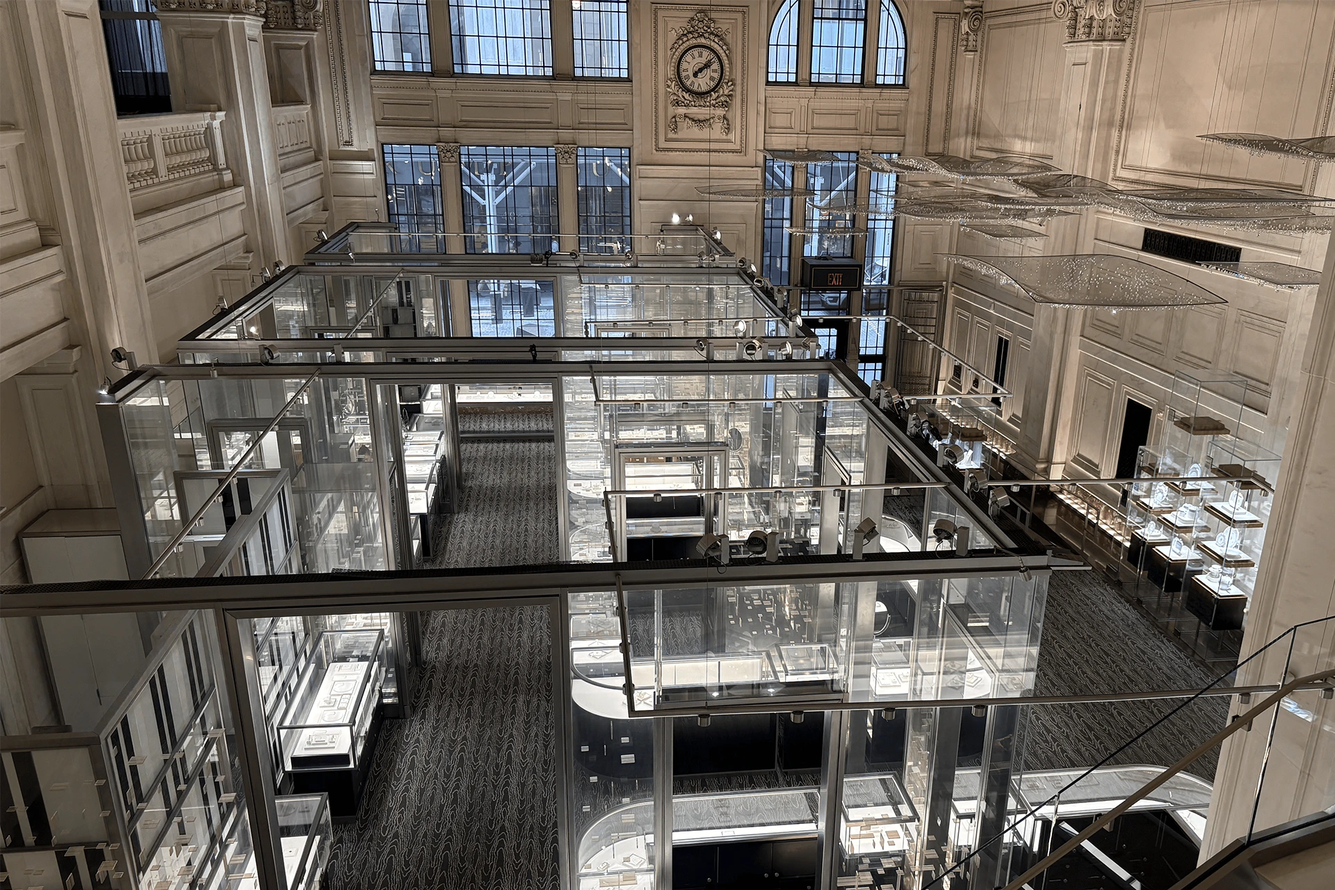
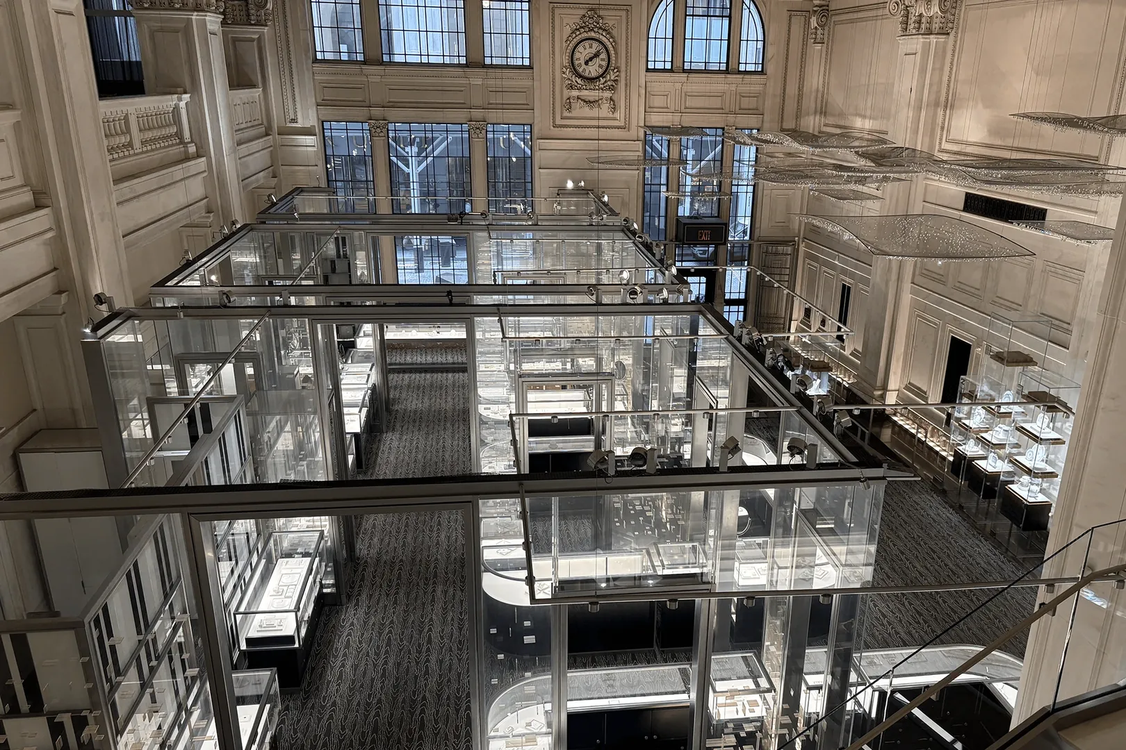
Rename the hero image, shrink the store photo, caption the heatmaps
hero (2).webp becomes hero.webp. The store photo drops its unused alpha
channel and goes to 1620x1080 (799KB to 340KB). Each ContentSquare image
gets a finding caption, with a source line for the zoning setup.

Changed region(s): [[0.3704, 0.0, 0.4012, 0.0306]]

diff --git a/case-studies/tiffany-wishlist/index.html b/case-studies/tiffany-wishlist/index.html
@@ -118,7 +118,7 @@
   </div>
   <!-- Transparent cut-out, so it sits on the page without the gold frame (.cs-media--bare) -->
   <figure class="cs-media cs-media--bare animate-in delay-1" style="--ratio:1404/1268">
-    <img src="assets/images/hero%20(2).webp" width="1404" height="1268" alt="A laptop showing the Saved Items page, with pieces selected and the Compare button ready" fetchpriority="high">
+    <img src="assets/images/hero.webp" width="1404" height="1268" alt="A laptop showing the Saved Items page, with pieces selected and the Compare button ready" fetchpriority="high">
   </figure>
 </section>
 
@@ -190,10 +190,12 @@
         <div class="cs-source">
           <h4 class="kicker">Existing experience</h4>
 
+          <!-- ContentSquare zoning: click rate by zone, page-view level, desktop, all users, 30-day window -->
           <div class="cs-gallery cs-gallery--2">
-            <figure class="cs-media" style="--ratio:1200/688"><img src="assets/images/content-square-home.webp" width="1200" height="688" alt="ContentSquare zone overlay on the homepage: 26.9% on the header and navigation, 0.65% on the hero, 0.53% on the promo banner" loading="lazy"></figure>
-            <figure class="cs-media" style="--ratio:1200/688"><img src="assets/images/content-square-pdp.webp" width="1200" height="688" alt="ContentSquare zone overlay on a product page: 27.5% on the product details and buttons, 2.65% on the product images" loading="lazy"></figure>
+            <figure class="cs-media" style="--ratio:1200/688"><img src="assets/images/content-square-home.webp" width="1200" height="688" alt="ContentSquare zone overlay on the homepage: 26.9% on the header and navigation, 0.65% on the hero, 0.53% on the promo banner" loading="lazy"><figcaption class="cs-caption cs-caption--note">Homepage: most clicks landed in the header and navigation, where people go to move around the site.</figcaption></figure>
+            <figure class="cs-media" style="--ratio:1200/688"><img src="assets/images/content-square-pdp.webp" width="1200" height="688" alt="ContentSquare zone overlay on a product page: 27.5% on the product details and buttons, 2.65% on the product images" loading="lazy"><figcaption class="cs-caption cs-caption--note">Product page: the details panel drew about ten times the clicks of the images, so the save control could sit there, where customers already interact.</figcaption></figure>
           </div>
+          <p class="cs-media-note">ContentSquare zoning: click rate by page section, desktop, all visitors, 30 days.</p>
           <p>ContentSquare showed how customers used product and commerce pages, and later informed where new controls could sit without disrupting established behavior. The cart already kept products indefinitely, so persistence alone would not differentiate a dedicated saved-items experience.</p>
         </div>
 
@@ -230,7 +232,7 @@
 
         <div class="cs-source">
           <h4 class="kicker">Retail immersion</h4>
-          <figure class="cs-media" style="--ratio:3/2"><img src="assets/images/wall-street.webp" width="1920" height="1280" alt="Tiffany's Wall Street store from the mezzanine, glass display cases under the banking hall's tall windows" loading="lazy"></figure>
+          <figure class="cs-media" style="--ratio:3/2"><img src="assets/images/wall-street.webp" width="1620" height="1080" alt="Tiffany's Wall Street store from the mezzanine, glass display cases under the banking hall's tall windows" loading="lazy"></figure>
           <p>I spent a week at Tiffany’s Wall Street store speaking with client advisors and store leadership. Customers often compared a small number of pieces before purchasing, with an advisor placing them side by side and talking through the differences. The website offered no equivalent. Comparison was less a new behavior to introduce than an existing one that had not yet been translated online.</p>
         </div>
 

diff --git a/assets/css/case-study.css b/assets/css/case-study.css
@@ -81,6 +81,11 @@
   line-height:1.4;color:var(--v45);text-align:center;
 }
 .cs-caption::before,.cs-caption::after{content:'';flex:1;min-width:var(--sp-md);height:1px;background:var(--v15);}
+/* Longer captions that explain a finding: left-aligned, no side rules */
+.cs-caption--note{display:block;text-align:left;}
+.cs-caption--note::before,.cs-caption--note::after{content:none;}
+/* Source line under a pair of images */
+.cs-prose .cs-media-note{font-family:var(--font-ui);font-size:var(--sz-xs);color:var(--v45);text-align:left;}
 
 /* ═══ STORY: contents column + article ═══ */
 .cs-story{
